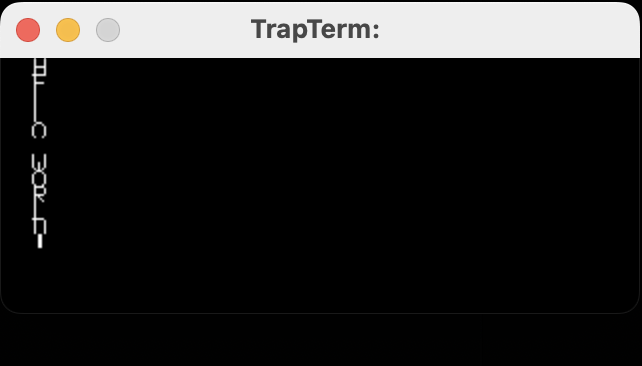
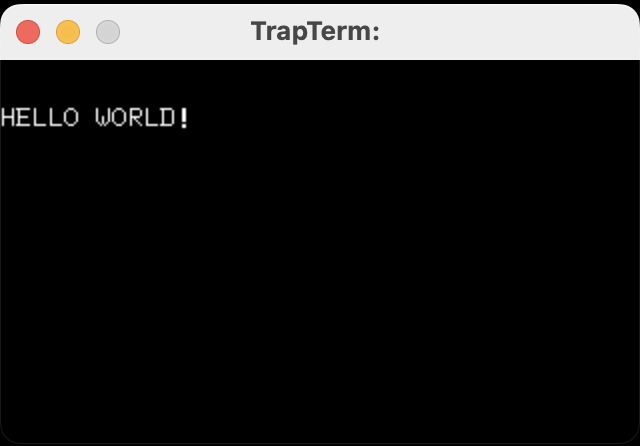
fix video display font

Changed region(s): [[0.0, 0.0, 1.0, 0.3907], [0.0312, 0.4208, 0.0938, 0.6612], [0.0625, 0.0601, 0.0938, 0.0902]]

diff --git a/video.py b/video.py
@@ -7,7 +7,7 @@ BLACK = (0, 0, 0)
 WHITE = (255, 255, 255)
 #ASPECT_RATIO = MIN_WIDTH / MIN_HEIGHT
 
-FONT_RESOLUTION = (8,8 )
+FONT_RESOLUTION = (8,12 )
 CHAR_RESOLUTION = (40,16)
 SCALE_FACTOR = 1
 
@@ -75,17 +75,22 @@ class TextVideoDisplay:
 		"""
 		px_array = pygame.PixelArray(self.surface)
 
-		for i in range(0,self._display_size[0], FONT_RESOLUTION[0]):
-			for j in range(0,self._display_size[1] ,FONT_RESOLUTION[1]):
-				memaddr = 0xc000 + int( ((i / FONT_RESOLUTION[0]) *CHAR_RESOLUTION[0]) + (j / FONT_RESOLUTION[1]) )
-#				memaddr = int(0xc050)
+		for j in range(0, CHAR_RESOLUTION[1]):
+			for i in range(0, CHAR_RESOLUTION[0]):
+				memaddr = 0xc000 + (j * CHAR_RESOLUTION[0]) + i
+				
 				for e in range(FONT_RESOLUTION[0]):
-					for o in range(FONT_RESOLUTION[1]):
-#						self._cpu._memory.memory[memaddr] = ord("H")
-						if self._char_rom[0][(self._cpu._memory.memory[memaddr] * FONT_RESOLUTION[0])+e] & 0x01 << o:
-							px_array[i+o][j+e] = WHITE
+					for o in range(8):
+						if self._char_rom[0][(self._cpu._memory.memory[memaddr] * 8)+o] & 0x01 << e:
+							px_array[(i * FONT_RESOLUTION[0])+e][(j * FONT_RESOLUTION[1])+o] = WHITE
 						else:
-							px_array[i+o][j+e] = BLACK
+							px_array[(i * FONT_RESOLUTION[0])+e][(j * FONT_RESOLUTION[1])+o] = BLACK
+
+						if o < 3:
+							if self._char_rom[1][(self._cpu._memory.memory[memaddr] * 8)+o] & 0x01 << e:
+								px_array[(i * FONT_RESOLUTION[0])+e][(j * FONT_RESOLUTION[1])+o+8] = WHITE
+							else:
+								px_array[(i * FONT_RESOLUTION[0])+e][(j * FONT_RESOLUTION[1])+o+8] = BLACK
 
 		del(px_array)
 
